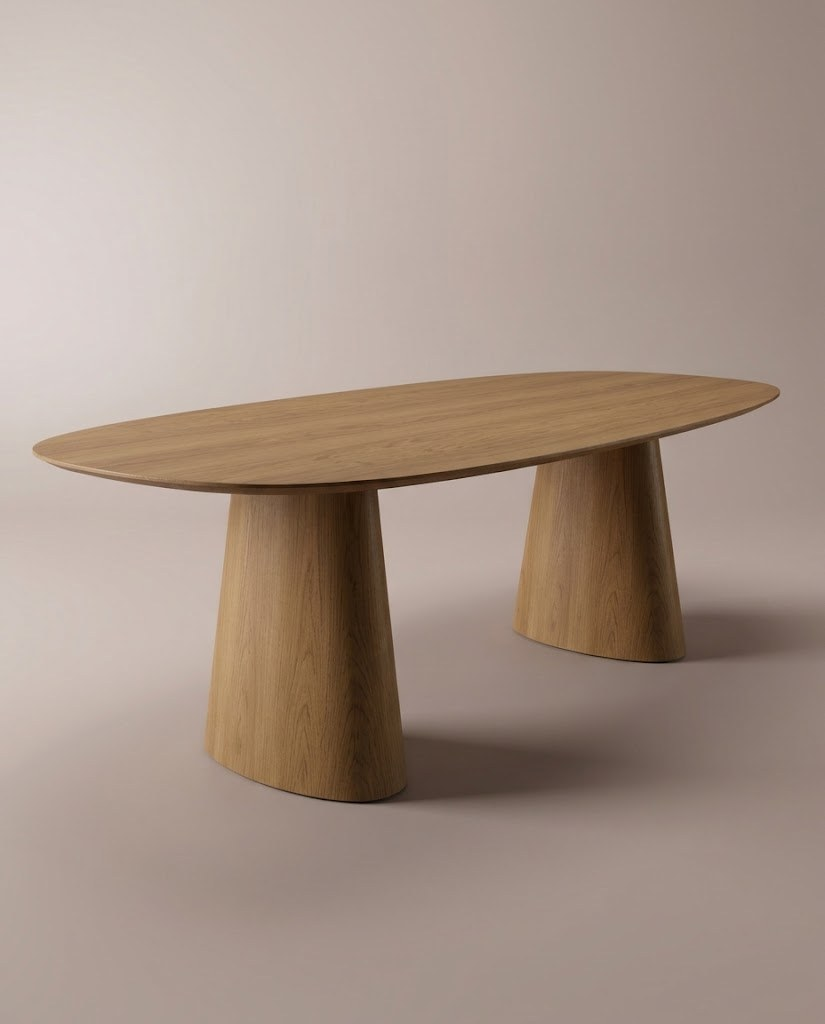
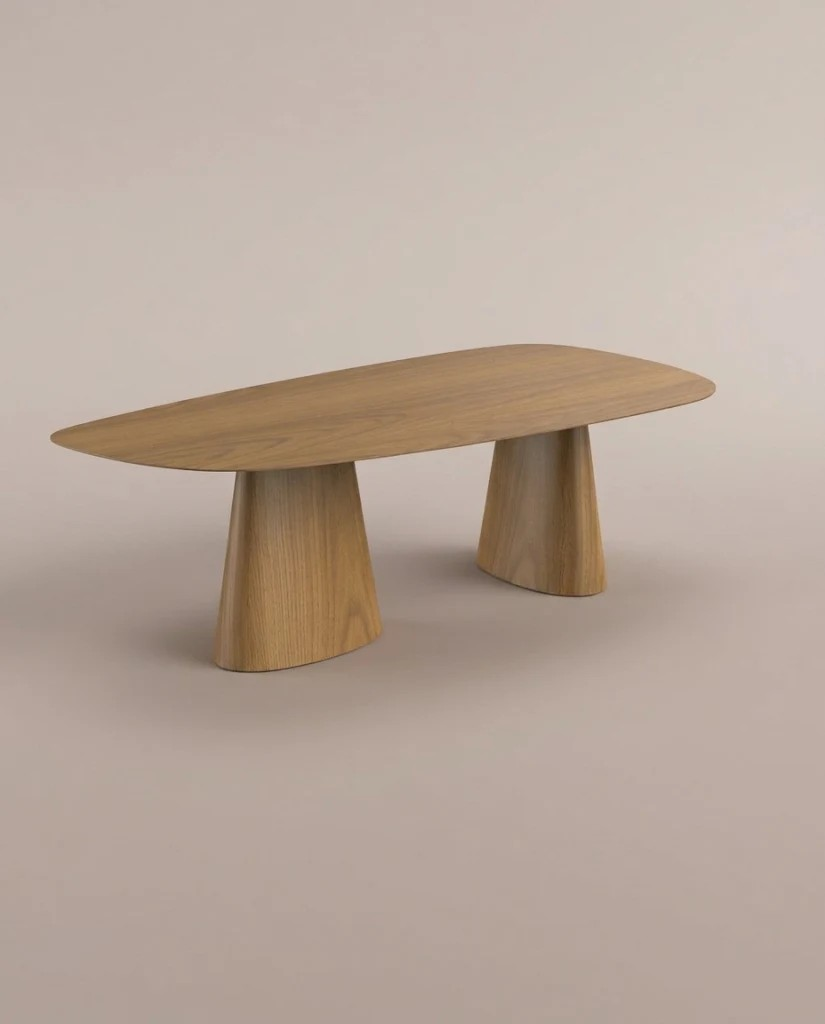
Mesa Allegra almendra: nueva foto general, se quitan general y detalle anteriores
Claude-Session: https://claude.ai/code/session_01CGCz11iLih3TFmj8JTgkSP

diff --git a/js/productos.js b/js/productos.js
@@ -290,7 +290,7 @@ const productos = [
         "nombre": "Mesa Allegra",
         "descripcion": "El mayor exponente del diseño orgánico minimalista, por su geometría de notable belleza, aporta ligereza y refinamiento.",
         "colores": [
-            { "nombre": "Almendra", "archivo": "mesa-allegra-almendra", "fondo": "#D8C6AA" },
+            { "nombre": "Almendra", "fotos": ["mesa-allegra-almendra", "mesa-allegra-almendra-3"], "fondo": "#D8C6AA" },
             { "nombre": "Tapa almendra · Base ébano", "fotos": ["mesa-allegra-tapa-almendra-base-ebano", "mesa-allegra-tapa-almendra-base-ebano-3"], "fondo": "linear-gradient(135deg, #D8C6AA 50%, #2E2622 50%)" },
             { "nombre": "Ébano", "archivo": "mesa-allegra-ebano", "fondo": "#2E2622", "combina": ["silla-jolie|silla-jolie-ebano", "silla-gisele"] }
         ],

diff --git a/catalogo.html b/catalogo.html
@@ -365,7 +365,6 @@
                 <a class="foto-link" href="ficha-producto.html?id=mesa-allegra&amp;color=Almendra" aria-label="Ver Mesa Allegra, almendra">
                     <div class="tarjeta-foto">
                         <img loading="lazy" decoding="async" src="img/productos/mesa-allegra-almendra.jpg" alt="Mesa Allegra almendra">
-                        <img loading="lazy" decoding="async" class="foto-hover" src="img/productos/mesa-allegra-almendra-2.jpg" alt="">
                     </div>
                 </a>
                 <p class="categoria">Mesas</p>
